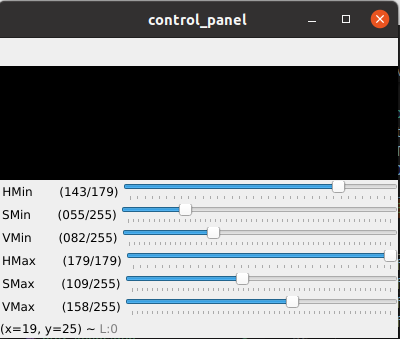
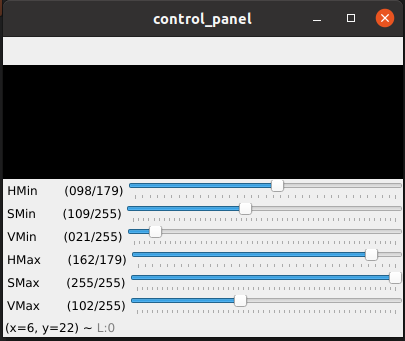
Started gathering data

Changed region(s): [[0.0, 0.0, 1.0, 1.0], [0.0, 0.0, 0.03, 0.059], [0.99, 0.3245, 1.0, 0.354]]

diff --git a/gt_capture/gt_capture.py b/gt_capture/gt_capture.py
@@ -17,15 +17,9 @@ def get_image(shh, remote_path="/home/pi/image.jpg", local_path="image.jpg"):
     ftp_client.close()
 
 def get_xy(image):
-    # TODO find the homography based on local measurements, meaning find the world coodinates and the pixels coordinates, 
-    # then the homography can map the circle coordinate sto the real world coordinates
-    #image = cv2.medianBlur(image,5)
-    gray_image = cv2.cvtColor(image, cv2.COLOR_BGR2GRAY)
-    cv2.imwrite('gray_image.png', gray_image)
-
-    # Set minimum and max HSV values to display
-    lower = np.array([150, 55, 50])
-    upper = np.array([179, 120, 158])
+    # Set minimum and max HSV values to display (measured manually)
+    lower = np.array([0, 40, 0])
+    upper = np.array([179, 255, 78])
 
     # Create HSV Image and threshold into a range.
     hsv = cv2.cvtColor(image, cv2.COLOR_BGR2HSV)
@@ -35,8 +29,9 @@ def get_xy(image):
     # Convert to gray image and blur the image
     gray_image = cv2.cvtColor(img_output, cv2.COLOR_BGR2GRAY)
     blurred = cv2.GaussianBlur(gray_image, (5, 5), 0)
-    (thresh, im_bw) = cv2.threshold(blurred, 70, 255,  cv2.THRESH_BINARY)
 
+    (thresh, im_bw) = cv2.threshold(blurred, 30, 255,  cv2.THRESH_BINARY)
+    cv2.imwrite('gray_image.png', gray_image)
     cv2.imwrite('bw_image.png', im_bw)
     cnts = cv2.findContours(im_bw.copy(), cv2.RETR_EXTERNAL,
 	                        cv2.CHAIN_APPROX_SIMPLE)
@@ -47,7 +42,6 @@ def get_xy(image):
         return
     
     if len(cnts) > 1:
-        print("dialation operation")
         kernel = np.ones((7,7),np.uint8)
         im_bw = cv2.erode(im_bw,kernel,iterations = 1)
         im_bw = cv2.dilate(im_bw,kernel,iterations = 1)
@@ -70,14 +64,9 @@ def get_xy(image):
     cX = int(M["m10"] / M["m00"])
     cY = int(M["m01"] / M["m00"])
     center = np.float32(np.array([[[cX, cY]]])) 
-    print(center)
     H = find_homography()
-    print(H)
     dst = cv2.perspectiveTransform(center, H)
 
-    print(dst)
-    f = open("data/gt/test.txt", "a")
-    # TODO compute real world x and y and return
     x = dst[0][0][0]
     y = dst[0][0][1]
     
@@ -100,7 +89,7 @@ if __name__ == '__main__':
             break
         taking_image = True
         while True:
-            ssh_stdin, ssh_stdout, ssh_stderr = ssh.exec_command("raspistill -o image.jpg")
+            ssh_stdin, ssh_stdout, ssh_stderr = ssh.exec_command("raspistill -awb greyworld -o image.jpg")
             get_image(ssh, local_path=local_path)
             command = input("Happy with the image type y: ")
             if command == "y":
